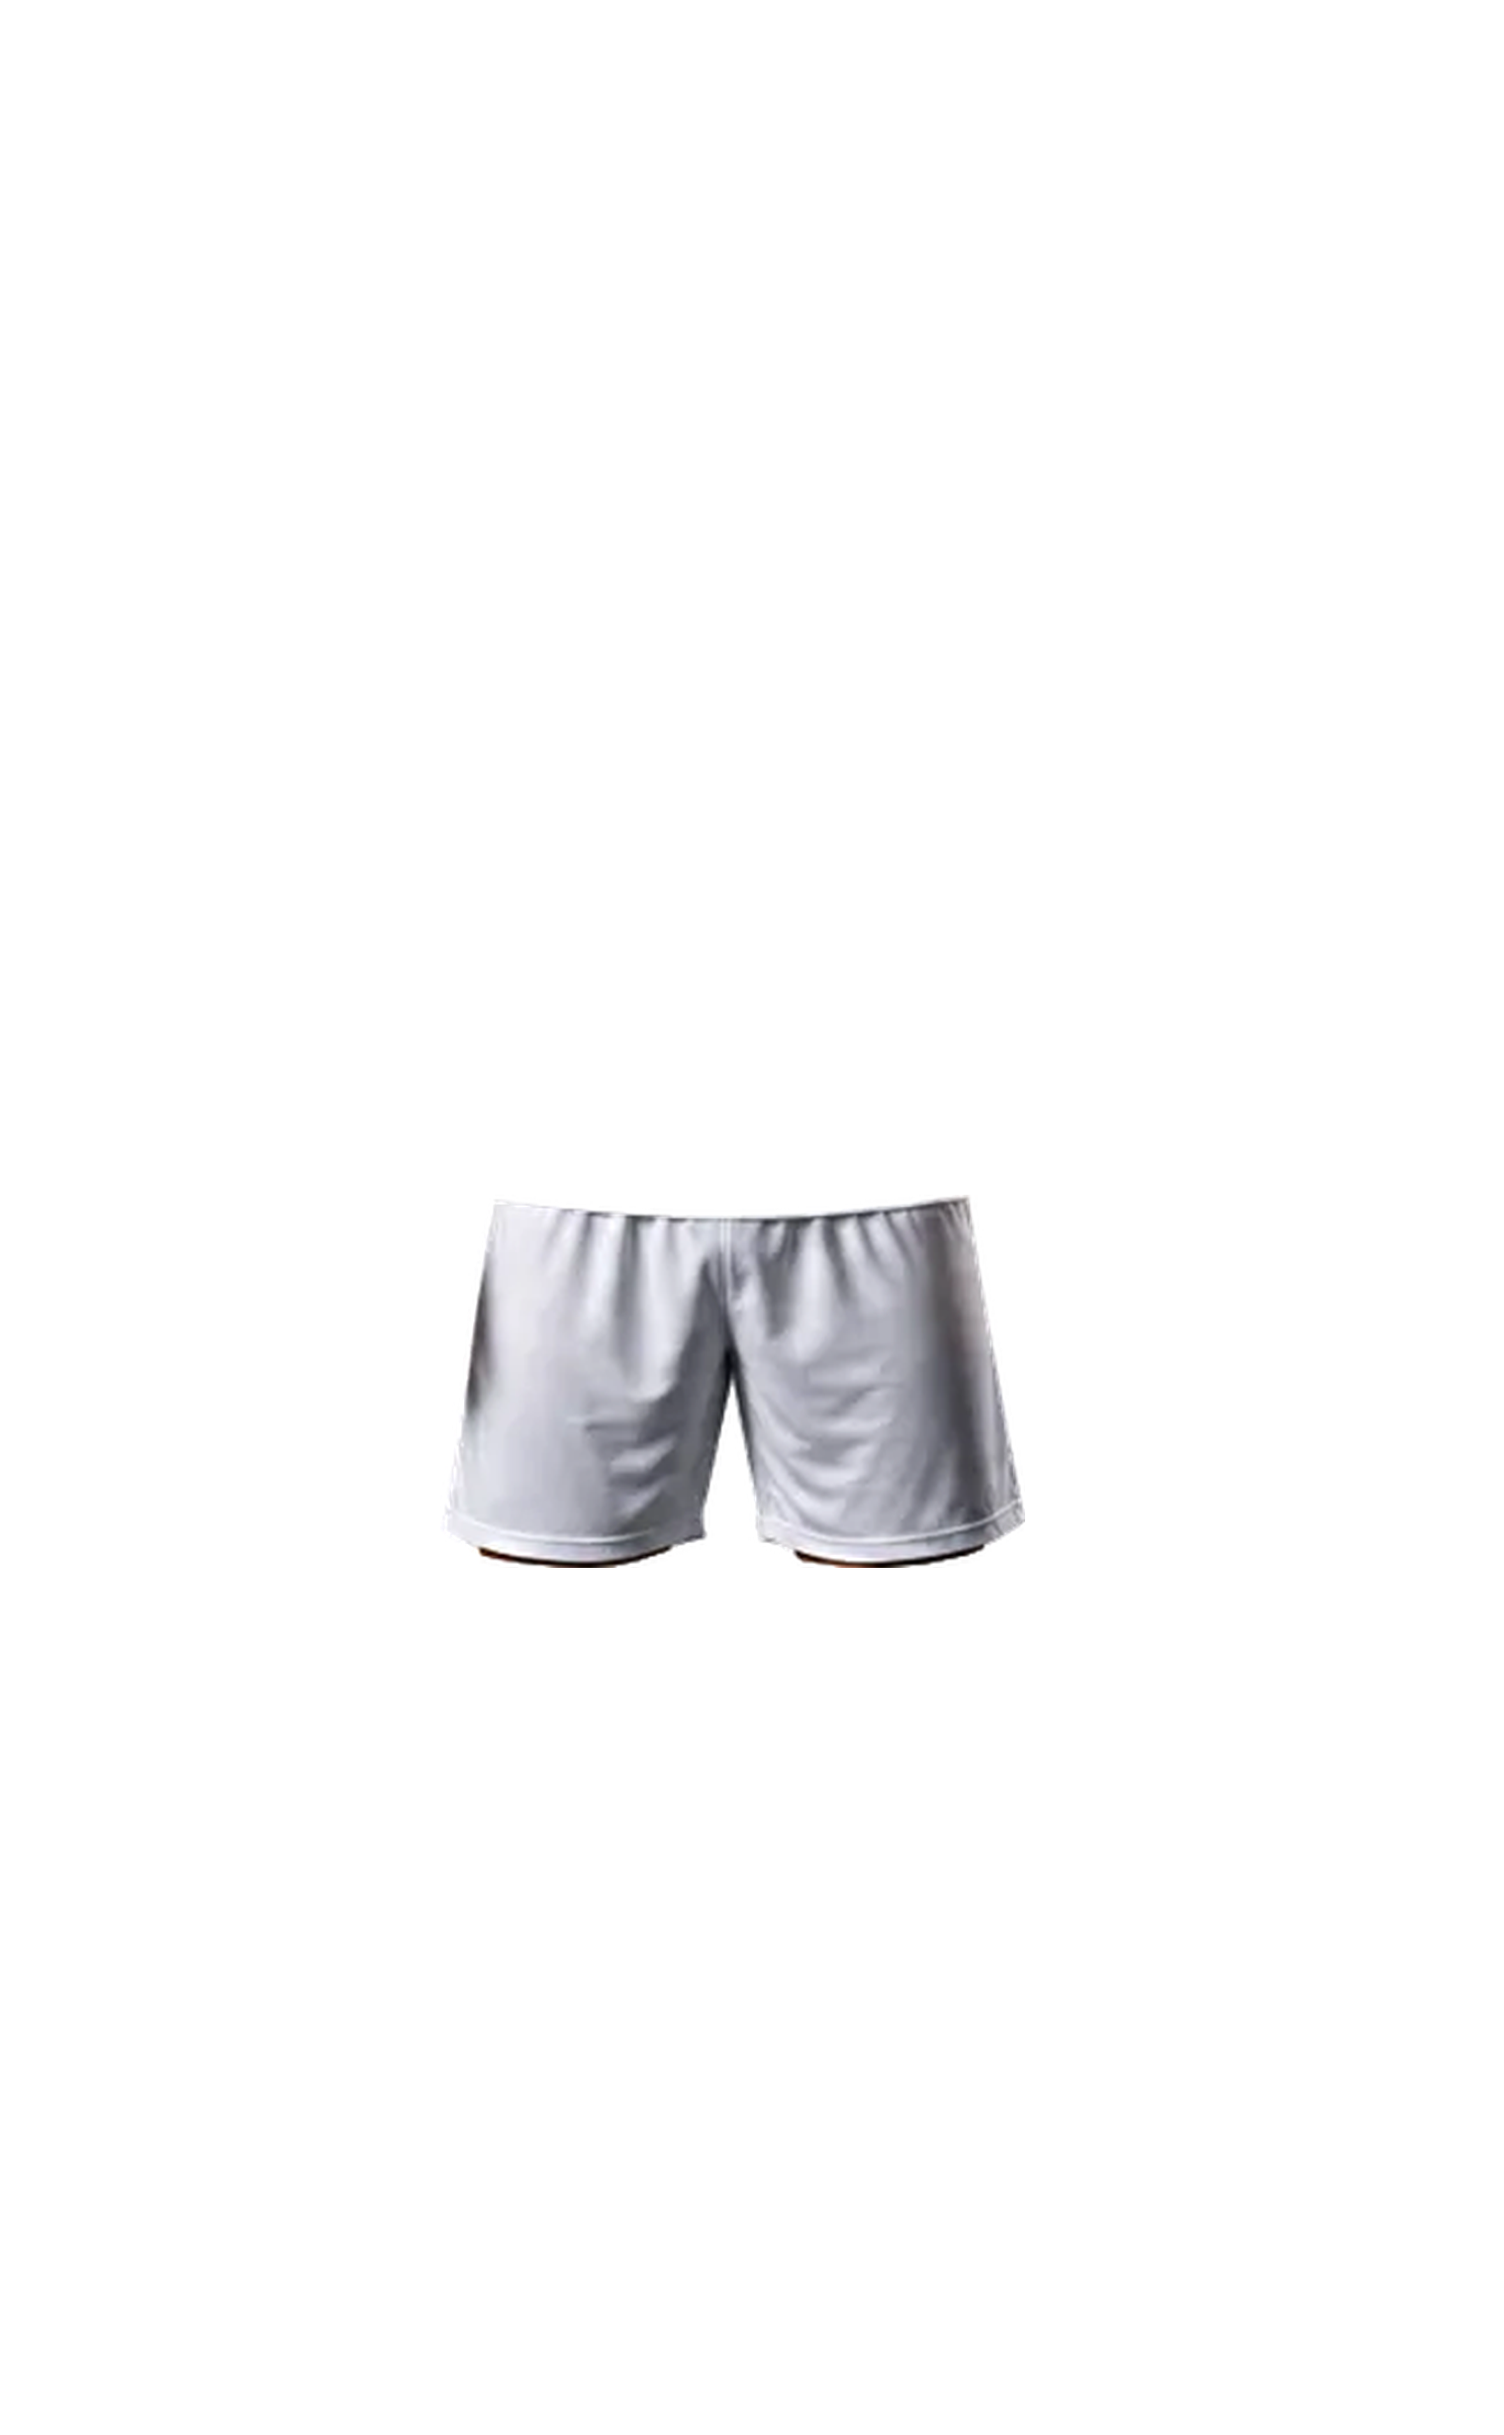
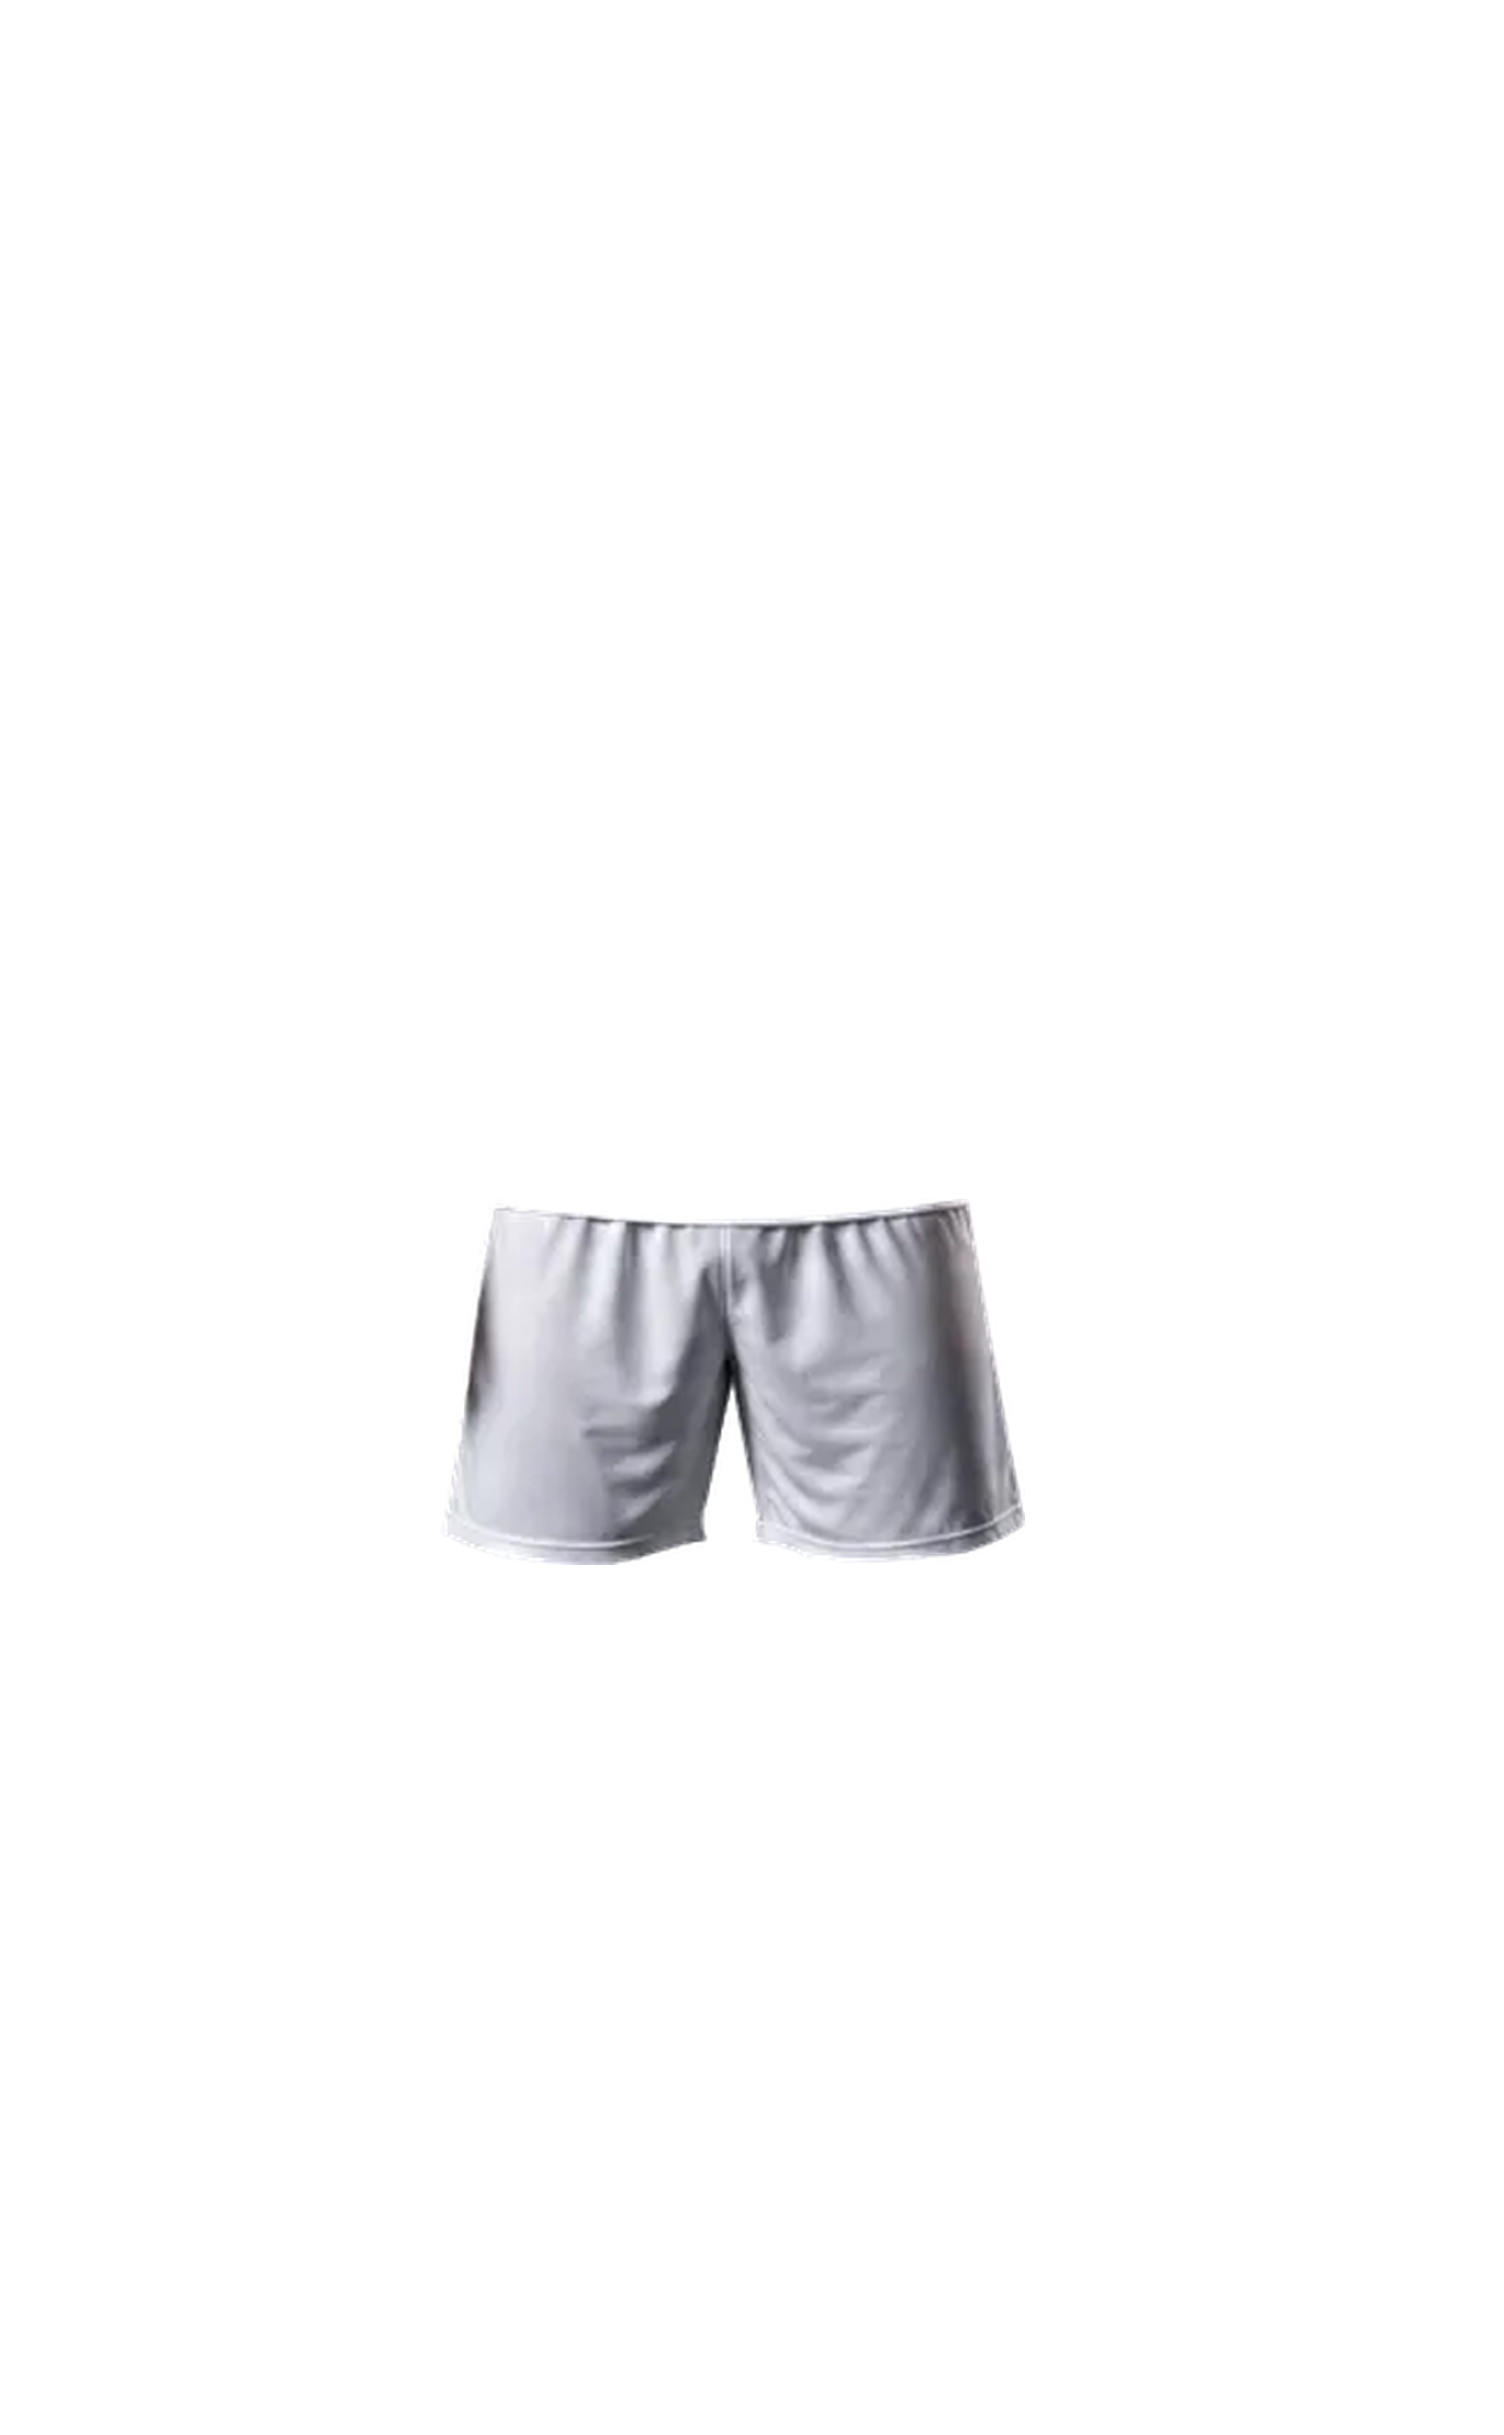
Bermuda da frente refeita (envio avulso de 2026-08-29)
Mesma família de recorte da anterior (202 px de largura, 2 px mais
curta): o encaixe no buraco deu 0.978 e a caixa da estampa do calção
ajusta 4 px. Âncoras das pernas conferidas — não mexeram.

diff --git a/src/lib/kitCaixas.ts b/src/lib/kitCaixas.ts
@@ -29,7 +29,7 @@ export const CAIXAS: Record<PecaKit, Record<LadoKit, Caixa>> = {
     verso: { x: 290, y: 396, w: 736, h: 880 },
   },
   calcao: {
-    frente: { x: 445, y: 1207, w: 591, h: 377 },
+    frente: { x: 445, y: 1211, w: 591, h: 370 },
     verso: { x: 378, y: 1235, w: 582, h: 352 },
   },
   meiao: {

diff --git a/scripts/montar-dino2.py b/scripts/montar-dino2.py
@@ -38,6 +38,8 @@ D = '/Users/syntax/Downloads/uniforme dino correto ultimo feito-2'
 # terceiro envio (2026-08-28): a camisa fica INTEIRA (mangas incluídas — a
 # estampa passa a cobri-las) e só a TIRA do punho é zona colorível à parte
 D2 = '/Users/syntax/Downloads/wetransfer_camiseta-costa-webp-inteira-webp_2026-08-28_1337'
+# bermuda da frente refeita (envio avulso de 2026-08-29)
+D3 = '/Users/syntax/Downloads'
 
 # O CorelDRAW trocou as pastas: o SVG da FRENTE aponta para a pasta COSTA
 # e vice-versa. A verdade é a IMAGEM, confirmada à vista.
@@ -53,7 +55,7 @@ W2 = f'{D}/peças que faltou/PEÇAS WEBP'
 PECAS = {
     'frente': {
         'camisola': f'{D2}/camiseta inteira frente webp.webp',
-        'calcao': f'{W2}/FRENTE/BERMUDA FRENTE.webp',
+        'calcao': f'{D3}/bermuda frente.webp',
         'meiao': f'{W2}/FRENTE/MEIAO FRENTE.webp',
         'gola': f'{W2}/FRENTE/GOLA FRENTE.webp',
         # a tira do punho é a única parte da manga com cor própria
